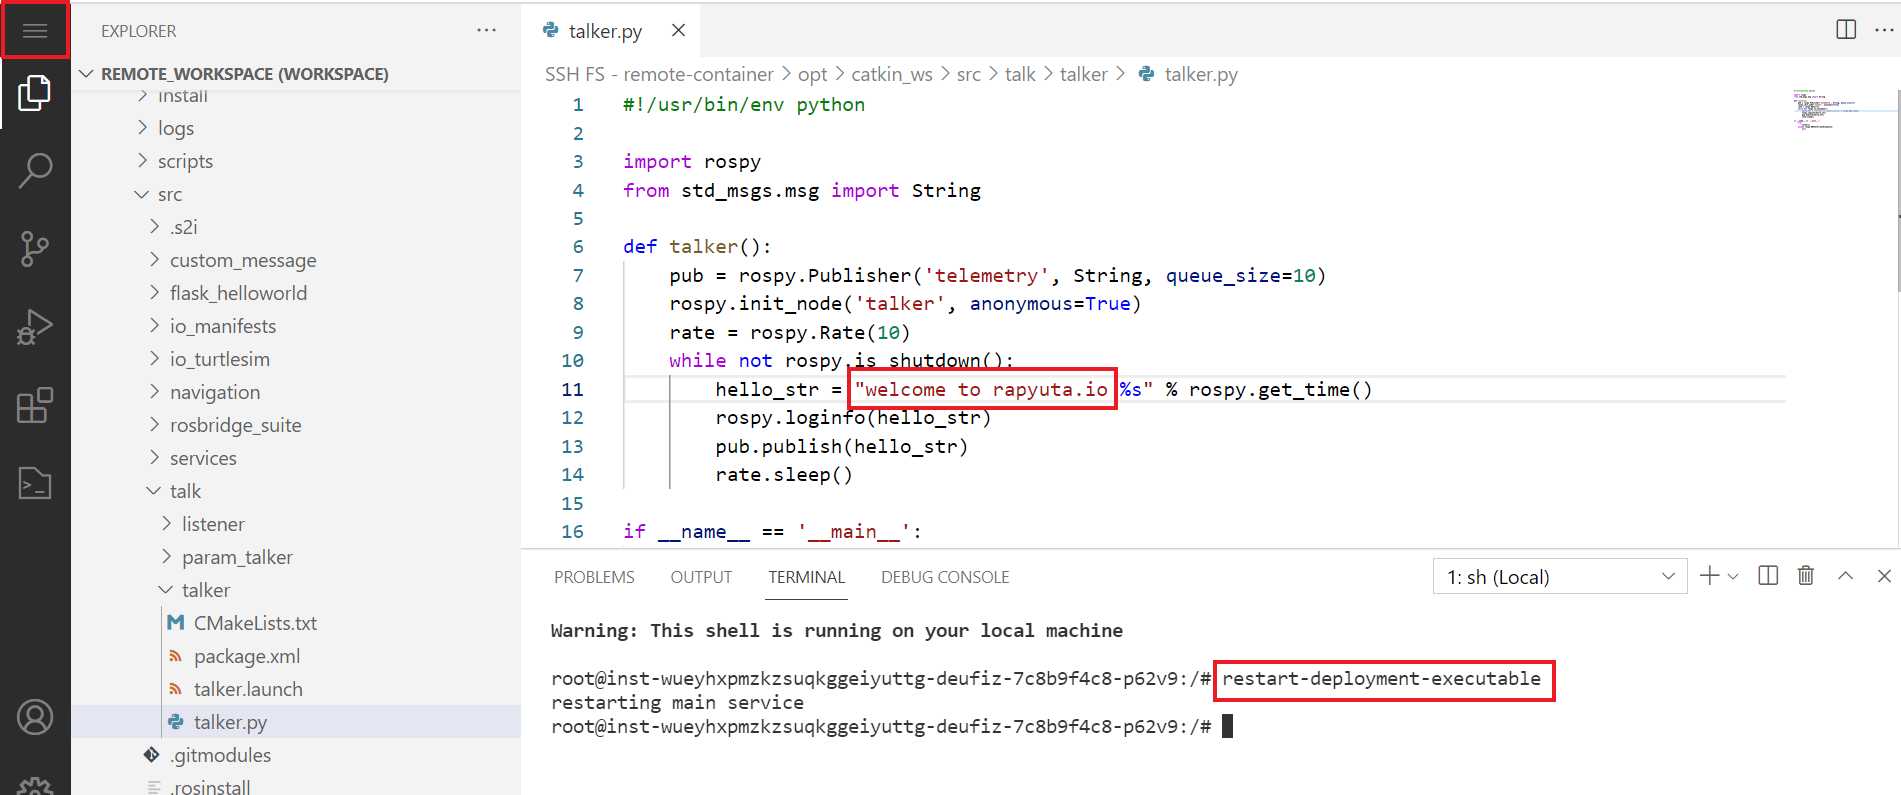
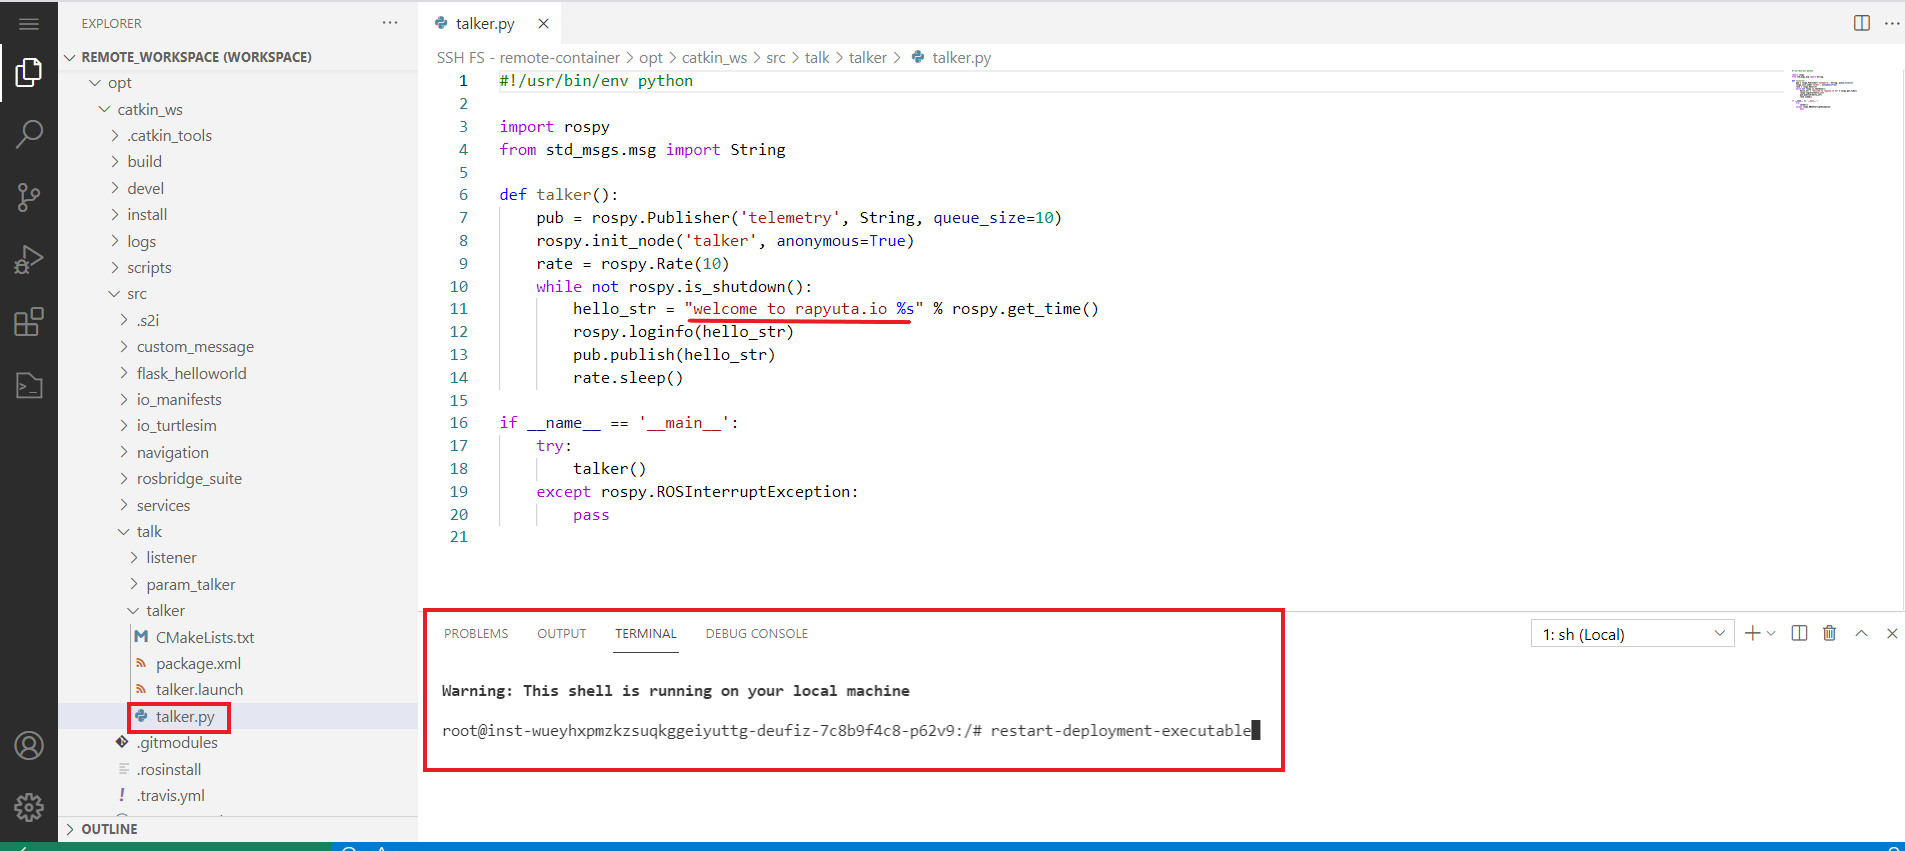
Fixed Hitesh's comment

diff --git a/hugo/content/3_how-tos/33_software-development/336_create-debug-environment.md b/hugo/content/3_how-tos/33_software-development/336_create-debug-environment.md
@@ -33,36 +33,30 @@ tags:
 You can create a debug environment for any cloud runtime component in a deployment. Do the following to create a debug environment
 
 {{%notice note%}}
-Debug environment works best if your cloud runtime component is atleast above 1 core i.e small.
+Debug environment works best if your cloud runtime component is at least above 1 core i.e small.
 {{%/notice%}}
 
-1. In the deployment details page, click the **Debug Environment** drop-down menu, select the component and then select the executable for which you want to create a debug environment.
-  The **Create New Debug Environment** page is displayed.
+1. On the deployment details page, click the **Debug Environment** drop-down menu, select the component and then select the executable for which you want to create a debug environment. The **Create New Debug Environment** page is displayed.
+![debug-capability](/images/core-concepts/deployments/create-debug-env.png?classes=border,shadow&width=25pc)
 
-2. In the **Create New Debug Environment** page, do the following.
-  a. In the **Name** field, type a name for the debug environment.
+3. In the **Name** field, type a name for the debug environment.
 {{%notice note%}}
 Same debug environment with different names throws an error  in the same project.
 {{%/notice%}}
 
-  b. Click the capabilities that you want to use to debug the executable.
+4. Click the capabilities that you want to use to debug the executable.
 
-    * **IDE**: 
+    * **IDE**
     * **Shell**
     * **Rviz**
     * **RQT**
 
-  c. Click **Connect**. It takes few minutes and the debug environment is created.
+5. Click **Connect**. It takes few minutes and the debug environment is created.
 
   {{%notice note%}}
-  After the debug environment is created, copy the **Access Key**. You will need the access key as the password to access any capability of this debug environment.
+  After the debug environment is created, copy the **Access Key** to a clipboard. You will need the access key as the password to access any capability of this debug environment.
 
   {{% /notice%}}
-
-
-1. In the rapyuta.io console, go to **Development > Debug Environment** and click **Add Debug Environment**.
-The **Create New Debug Environment** page is displayed.
-
 
 ### Debugging using Capabilities
 
@@ -71,39 +65,36 @@ After you have created a debug environment, click the environment to debug your 
 #### IDE
 To debug using IDE capability, do the following.
 
-1. After your debug environment is creatred, navigate to the debug environment by clicking the **Debug environment** drop-down.
+1. After your debug environment is created, navigate to the debug environment by clicking the **Debug environment** drop-down.
 
 2. Click **IDE** as the capability.
 
-![debug-capability](/images/core-concepts/deployments/debug-environment.png?classes=border,shadow&width=25pc)
-
-2. Enter the access Key as the password when prompted. An online VS code editor is displayed. The browser based editor allows you to do the following.
+3. Enter the access key as the password when prompted. An online VS code editor is displayed. The browser based editor allows you to do the following.
 
 ![IDE](/images/core-concepts/deployments/ide.png?classes=border,shadow&width=50pc)
   * To edit the source code, navigate to the directory and click the file to edit your executable.
-  * To open a terminal from the IDE, click the hamberger menu in the VS code editor and click **Terminal > New Terminal**.
-  * After you make the required changes, to restart your executable usiing catkin build recipe, type `restart-deployment-executable` in the terminal. It takes few minutes to restart and the updated changes are reflected in the deployment. For other types of docker images click here
+  * To open a terminal from the IDE, click the hamburger menu in the VS code editor and click **Terminal > New Terminal**.
+  * After you make the required changes, to restart your executable using catkin build recipe, type `restart-deployment-executable` in the terminal. It takes few minutes to restart and the updated changes are reflected in the deployment. For other types of docker images [click here](/5_deep-dives/52_software-development/529_debug-environment/#docker-image-support-for-debug-environment).
   
 #### Shell
 To debug using the Shell capability, do the following.
 
-1. After your debug environment is creatred, navigate to the debug environment by clicking the **Debug environment** drop-down.
+1. After your debug environment is created, navigate to the debug environment by clicking the **Debug environment** drop-down.
 
 2. Click **Shell** as the capability.
 
-3. Enter the access Key as the password when prompted. A GUI based Shell is displayed and allows you to do the following. 
+3. Enter the access key as the password when prompted. A GUI based Shell is displayed and allows you to run custom commands or open tools like RQT and RVIZ. 
 
 ![shell](/images/core-concepts/deployments/shell.png?classes=border,shadow&width=50pc)
-  * You can run commnad to open RQT or RVIZ UI.  
 
 #### RQT
-To visualise your ROS components in a deployment using the RQT tool, do the following.
+To visualize your ROS components in a deployment using the RQT tool, do the following.
 
-1. After your debug environment is creatred, navigate to the debug environment by clicking the **Debug environment** drop-down.
+1. After your debug environment is created, navigate to the debug environment by clicking the **Debug environment** drop-down.
 
 2. Click **RQT** as the capability.
 
-3. Enter the access Key as the password when prompted. A RQT tool is displayed. You can visualise the graphical representation of your ROS nodes in your deployment. For more information about RQT, [click here](http://wiki.ros.org/rqt)
+3. Enter the access key as the password when prompted. A RQT tool is displayed. You can visualise the graphical representation of your ROS nodes in your deployment. For more information about using the RQT tool, [click here](http://wiki.ros.org/rqt)
 
 ![rqt](/images/core-concepts/deployments/rqt.png?classes=border,shadow&width=50pc)
  
@@ -111,23 +102,23 @@ To visualise your ROS components in a deployment using the RQT tool, do the foll
 #### RVIZ
 To view the 3D model of your robot using the RVIZ capability, do the following.
 
-1. After your debug environment is creatred, navigate to the debug environment by clicking the **Debug environment** drop-down.
+1. After your debug environment is created, navigate to the debug environment by clicking the **Debug environment** drop-down.
 
 2. Click **RVIZ** as the capability.
 
-3. Enter the access Key as the password when prompted. A RVIZ tool is displayed with a 3D model of your components.
+3. Enter the access key as the password when prompted. A RVIZ tool is displayed with a 3D model of your components.
 
 ![rviz](/images/core-concepts/deployments/rviz.png?classes=border,shadow&width=50pc)
  
-4. To add a new display, click **Add** in the RVIZ UI. For more information, [click here](http://wiki.ros.org/rviz/UserGuide).
+4. To add a new display, click **Add** in the RVIZ UI. For more information about using the RVIZ tool, [click here](http://wiki.ros.org/rviz/UserGuide).
 
 ## Updating a Cloud Debug Environment
 
-If you want to add/remove more capabilities to a debug environment, do the following.
+The update functionality of a debug environment allows you to add or remove debug capability for the environment. Do the following to update a debug environment.
 
 1. Navigate to the debug environment in the deployments details page and click **Update**.
 
-2. Select the capability that you want to add to the debug environment or de-select the capability to remove from the debug environment. 
+2. Select the capability that you want to add to the debug environment or de-select the capability to remove any capability from the debug environment. 
 
 3. Click **Update**. The debug environment is updated.
 

diff --git a/hugo/content/4_tutorials/42_advanced/create-debug-environment.md b/hugo/content/4_tutorials/42_advanced/create-debug-environment.md
@@ -55,9 +55,7 @@ The build takes about two to five minutes to build the source code in the *io_tu
 
 ### Create Cloud Routed Network
 
-Follow these steps to create a device routed network. Make sure you have a rapyuta.io registered
-device with docker runtime and AMD64 architecture available.
-
+Follow these steps to create a cloud routed network.
 
 1. On the left navigation bar, click **NETWORKS**.
 2. Click **ADD NEW ROUTED NETWORK**.
@@ -69,13 +67,11 @@ device with docker runtime and AMD64 architecture available.
 
 Deploying a routed network is identical to deploying any other package and has identical corresponding phases and errors.
 Once the routed network deployment succeeds, other ROS package deployments can bind to it and communicate.
-![goo](/images/tutorials/routed-networks/routed-network-details.png?classes=border,shadow&width=40pc)
-
 
 ## Deploying the package
 1. Click **Development>Catalog** > select **ROS Publisher** package > click **Deploy package**.
 2. In the **Name of deployment** box, enter a name for the deployment
-   , for example, `ROS Publisher Deployment`
+   , for example, `dep11`
 3. Click **Add** next to the **Routed Network** field.
 4. From the **Network** drop-down menu, select `routed_network_1` as the routed network.
 5. Click **CREATE DEPLOYMENT** > **Confirm**.
@@ -87,24 +83,22 @@ and the **STATUS** is **Running**.
 
 ## Creating a Debug Environment
 
-1. In the deployment details page, click the **Debug Environment** drop-down menu, select the component and then select the executable for which you want to create a debug environment.
-  The **Create New Debug Environment** page is displayed.
+1. In the deployment details page, click the **Debug Environment** drop-down menu, select the component and then select the executable for which you want to create a debug environment. The **Create New Debug Environment** page is displayed.
+  
 
-2. In the **Create New Debug Environment** page, do the following.
-
-3. In the **Name** field, type `debugenv-1`as the name for the debug environment.
+2. In the **Name** field, type `debugenv-1`as the name for the debug environment.
 {{%notice note%}}
 The same debug environment with different names throws an error in the same project.
 {{%/notice%}}
 
-4. Click the following capabilities.
+3. Click the following capabilities.
 
     * **IDE** 
     * **Shell**
     * **Rviz**
     * **RQT**
 
-5. Click **Connect**. It takes few minutes and the debug environment is created.
+4. Click **Connect**. It takes few minutes and the debug environment is created.
 
   {{%notice note%}}
   After the debug environment is created, copy the **Access Key**. You will need the access key as the password to access any capability of this debug environment.
@@ -122,16 +116,16 @@ To modify the code using IDE capability, do the following.
 
 2. Click **IDE** as the capability.
 
-![debug-capability](/images/core-concepts/deployments/debug-environment.png?classes=border,shadow&width=25pc)
+3. Enter the access key as the password when prompted. An online VS code editor is displayed. The browser-based editor allows you to do the following.
 
-2. Enter the access Key as the password when prompted. An online VS code editor is displayed. The browser-based editor allows you to do the following.
+![IDE](/images/core-concepts/deployments/debug-ide.png?classes=border,shadow&width=50pc)  
 
-![IDE](/images/core-concepts/deployments/ide.png?classes=border,shadow&width=50pc)
+4. Edit the source code, navigate to the directory and click the file to edit your executable. For this tutorial, change the source code to `welcome to rapyuta.io` in the *talker.py* file.
 
-3. Edit the source code, navigate to the directory and click the file to edit your executable. For this tutorial, change the source code to `welcome to rapyuta.io`.
-
-4. Open a terminal from the IDE, click the hamburger menu in the VS code editor and click **Terminal > New Terminal**.
+5. Open a terminal from the IDE, click the hamburger menu in the VS code editor and click **Terminal > New Terminal**.
 
 5. After you make the required changes, to restart your executable using catkin build recipe, type `restart-deployment-executable` in the terminal. It takes few minutes to restart and the updated changes are reflected in the deployment.
 
-![IDE](/images/core-concepts/deployments/debug-ide.png?classes=border,shadow&width=50pc)  
+![IDE](/images/core-concepts/deployments/update-ide.png?classes=border,shadow&width=50pc) 
+
+

diff --git a/hugo/content/5_deep-dives/52_software-development/529_debug-environment.md b/hugo/content/5_deep-dives/52_software-development/529_debug-environment.md
@@ -12,7 +12,7 @@ The rapyuta.io provides you a debug environment to debug your application, modif
 
 The debug environment allows you to select the following capabilities.
 
-* **IDE**: A browser-based [VS Code editor](https://github.com/cdr/code-server) that uses the open-source tool, You can use the editor to modify your source code, and also provides you a terminal to push your changes to the source version control like git.
+* **IDE**: A browser-based [VS Code editor](https://github.com/cdr/code-server) that uses the open-source tool, you can use the editor to modify your source code, and also provides you a terminal to push your changes to the source version control like git.
 
 * **Shell**: A GUI-based Shell that is useful for running any command or tool. You can execute any command with a custom variable, for example, rviz -d `rospack find custompkg`/rviz/path_planning.rviz. It can also be used to open RQT tool with custom parameters.
 
